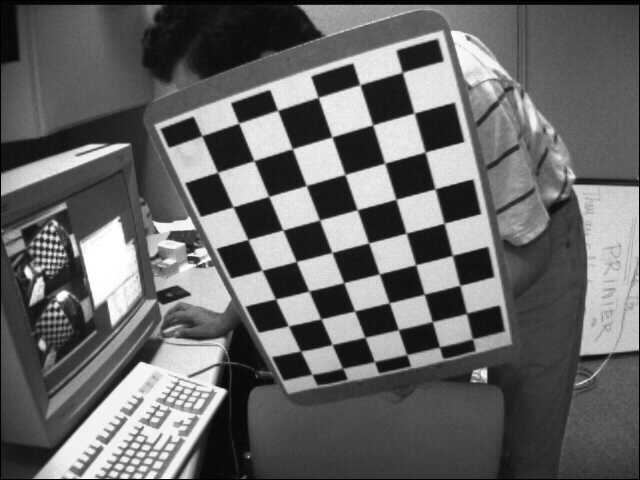
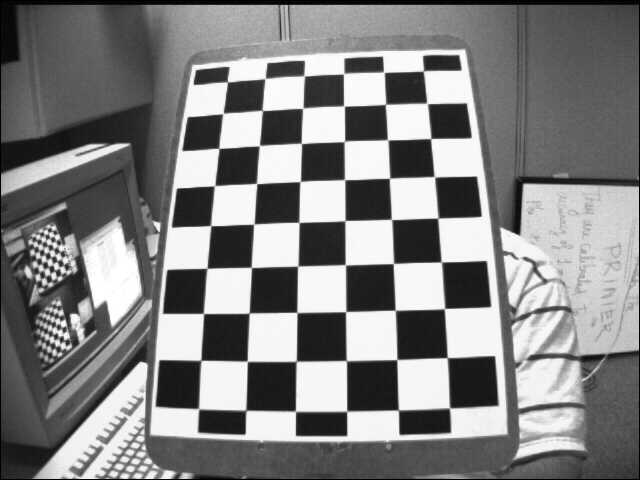
add camera calibration

diff --git a/Homography.py b/Homography.py
@@ -1,0 +1,63 @@
+import matplotlib.pyplot as plt
+import cv2
+import numpy as np
+from numpy.core.fromnumeric import reshape
+import sys
+sys.path.append("../")
+from Chessboard import ChessBoard
+
+class Homography(ChessBoard):
+    def __init__(self, width, height, grid_size):
+        super().__init__(width, height, grid_size)
+
+    def getHomography(self):
+        A = []
+        b = []
+        for coord_x in range(self.width):
+            for coord_y in range(self.height):
+                coord = (coord_x, coord_y)
+                u1, v1 = self.getWorldCorners(coord)
+                u2, v2 = self.getCorners(coord)
+                A_line_x = [u1, v1, 1, 0, 0, 0, -u1 * u2, -v1 * u2]
+                b_line_x = u2
+                A.append(A_line_x)
+                b.append(b_line_x)
+                A_line_y = [0, 0, 0, u1, v1, 1, -u1 * v2, -v1 * v2]
+                b_line_y = v2
+                A.append(A_line_y)
+                b.append(b_line_y)
+
+        A = np.array(A)
+        b = np.array(b)
+
+        x = np.linalg.inv(A.transpose().dot(A)).dot(A.transpose()).dot(b)
+        self.Homo = np.append(x,1).reshape((3, 3))
+
+        return self.Homo
+
+
+if __name__ == "__main__":
+    homo_chessboard = Homography(9, 6, 30)       # grid_size : mm
+    homo_chessboard.loadImg("./data/left7.jpg")
+    
+    corner_point_coord = (2, 5)             # (x, y)
+    corner_point = homo_chessboard.getCorners(corner_point_coord)
+    print("corner_point:\n", corner_point)
+    world_corner_point = homo_chessboard.getWorldCorners(corner_point_coord)
+    print("world_corner_point:\n", world_corner_point)
+
+    homo_chessboard.drawCorners(corner_point_coord)
+    image, drawImage = homo_chessboard.getImg()
+
+    Homo = homo_chessboard.getHomography()
+    print("Homography Mat:\n", Homo)
+
+    world_corner_point = np.array(world_corner_point)
+    world_corner_point = np.append(world_corner_point, 1)
+    Homo_coord = Homo.dot(world_corner_point)
+
+    print("Translated corner point:\n", tuple(Homo_coord[:2]/Homo_coord[2]))
+
+    plt.figure()
+    plt.imshow(drawImage)
+    plt.show()

diff --git a/Chessboard.py b/Chessboard.py
@@ -1,0 +1,50 @@
+import matplotlib.pyplot as plt
+import cv2
+import numpy as np
+from numpy.core.fromnumeric import reshape
+
+class ChessBoard():
+    def __init__(self, width, height, grid_size):
+        self.width = width
+        self.height = height
+        self.grid_size = grid_size
+        self.image = None
+        self.drawImage = None
+    
+    def loadImg(self, path):
+        self.image = cv2.imread(path)
+
+    def getCorners(self, coord = None):
+        retval, self.corners = cv2.findChessboardCorners(self.image ,(self.width, self.height))
+
+        if coord == None:
+            return self.corners
+        else:
+            corner_point_id = coord[1] * self.width + coord[0]
+            corner_point = tuple(map(int, self.corners[corner_point_id][0]))
+            return corner_point
+
+    def getWorldCorners(self, coord = None):
+        if coord == None:
+            width_range = np.arange(0, self.width * self.grid_size, self.grid_size)
+            height_range = np.arange(0, self.height * self.grid_size, self.grid_size)
+            x, y = np.meshgrid(width_range, height_range)
+            self.world_corners = np.stack((x, y), axis = 2).reshape((54, 2))
+            return self.world_corners
+        else:
+            corner_point = (coord[0] * self.grid_size, coord[1] * self.grid_size)
+            return corner_point
+    
+    def drawCorners(self, coord = None):
+        self.drawImage = self.image
+        if coord == None:
+            for corner_point_id in range(self.width * self.height):
+                self.drawImage = cv2.circle(self.drawImage, \
+                    tuple(map(int, self.corners[corner_point_id][0])), 2, (0, 255, 0), 4)
+        else:
+            corner_point_id = coord[1] * self.width + coord[0]
+            self.drawImage = cv2.circle(self.drawImage, \
+                    tuple(map(int, self.corners[corner_point_id][0])), 2, (0, 255, 0), 4)
+
+    def getImg(self):
+        return self.image, self.drawImage

diff --git a/CameraCalib.py b/CameraCalib.py
@@ -1,0 +1,48 @@
+import matplotlib.pyplot as plt
+import cv2
+import numpy as np
+from numpy.core.fromnumeric import reshape
+
+import sys
+sys.path.append("../")
+from Chessboard import ChessBoard
+
+class CameraCalib():
+    def __init__(self, width, height, grid_size, image_range):
+        self.width = width
+        self.height = height
+        self.grid_size = grid_size
+        self.world_points = []
+        self.image_points = []
+        self.chessboards = []
+
+        for i in image_range:
+            chessboard = ChessBoard(9, 6, 30)
+            chessboard.loadImg("./data/left" + str(i).zfill(2) + ".jpg")
+            self.chessboards.append(chessboard)
+        
+        self.image_size = self.chessboards[0].getImg()[0].shape
+
+    def Calibrate(self):
+        for chessboard in self.chessboards:
+            corners = chessboard.getCorners()
+            self.image_points.append(corners)
+            world_corners = np.array(chessboard.getWorldCorners())
+            self.world_points.append(world_corners)
+
+        self.image_points = np.array(self.image_points).squeeze().astype(np.float32)
+        self.world_points = np.array(self.world_points)
+        ones = np.zeros((self.world_points.shape[0], self.world_points.shape[1], 1))
+        self.world_points = np.concatenate((self.world_points, ones), axis = 2).astype(np.float32)
+
+        retval, self.intrinsics, self.distortion, rvecs, tvecs = \
+                cv2.calibrateCamera(self.world_points, self.image_points, self.image_size[:2], None, None)
+
+        return self.intrinsics, self.distortion
+
+if __name__ == "__main__":
+    camer_calib = CameraCalib(9, 6, 30, range(1, 15))
+    intrinsics, distortion = camer_calib.Calibrate()
+
+    print("intrinsics:\n", intrinsics)
+    print("distortion:\n", distortion[0])

diff --git a/README.md b/README.md
@@ -1,2 +1,9 @@
-# Homography
-Class of Homography
+# CV_Work
+
+CV class homework and project
+
+Items:
+
+0. Chessboard: class of basic chessboard
+1. Homography: class of calculating H matrix
+2. CameraCalib: class of camera calibration
